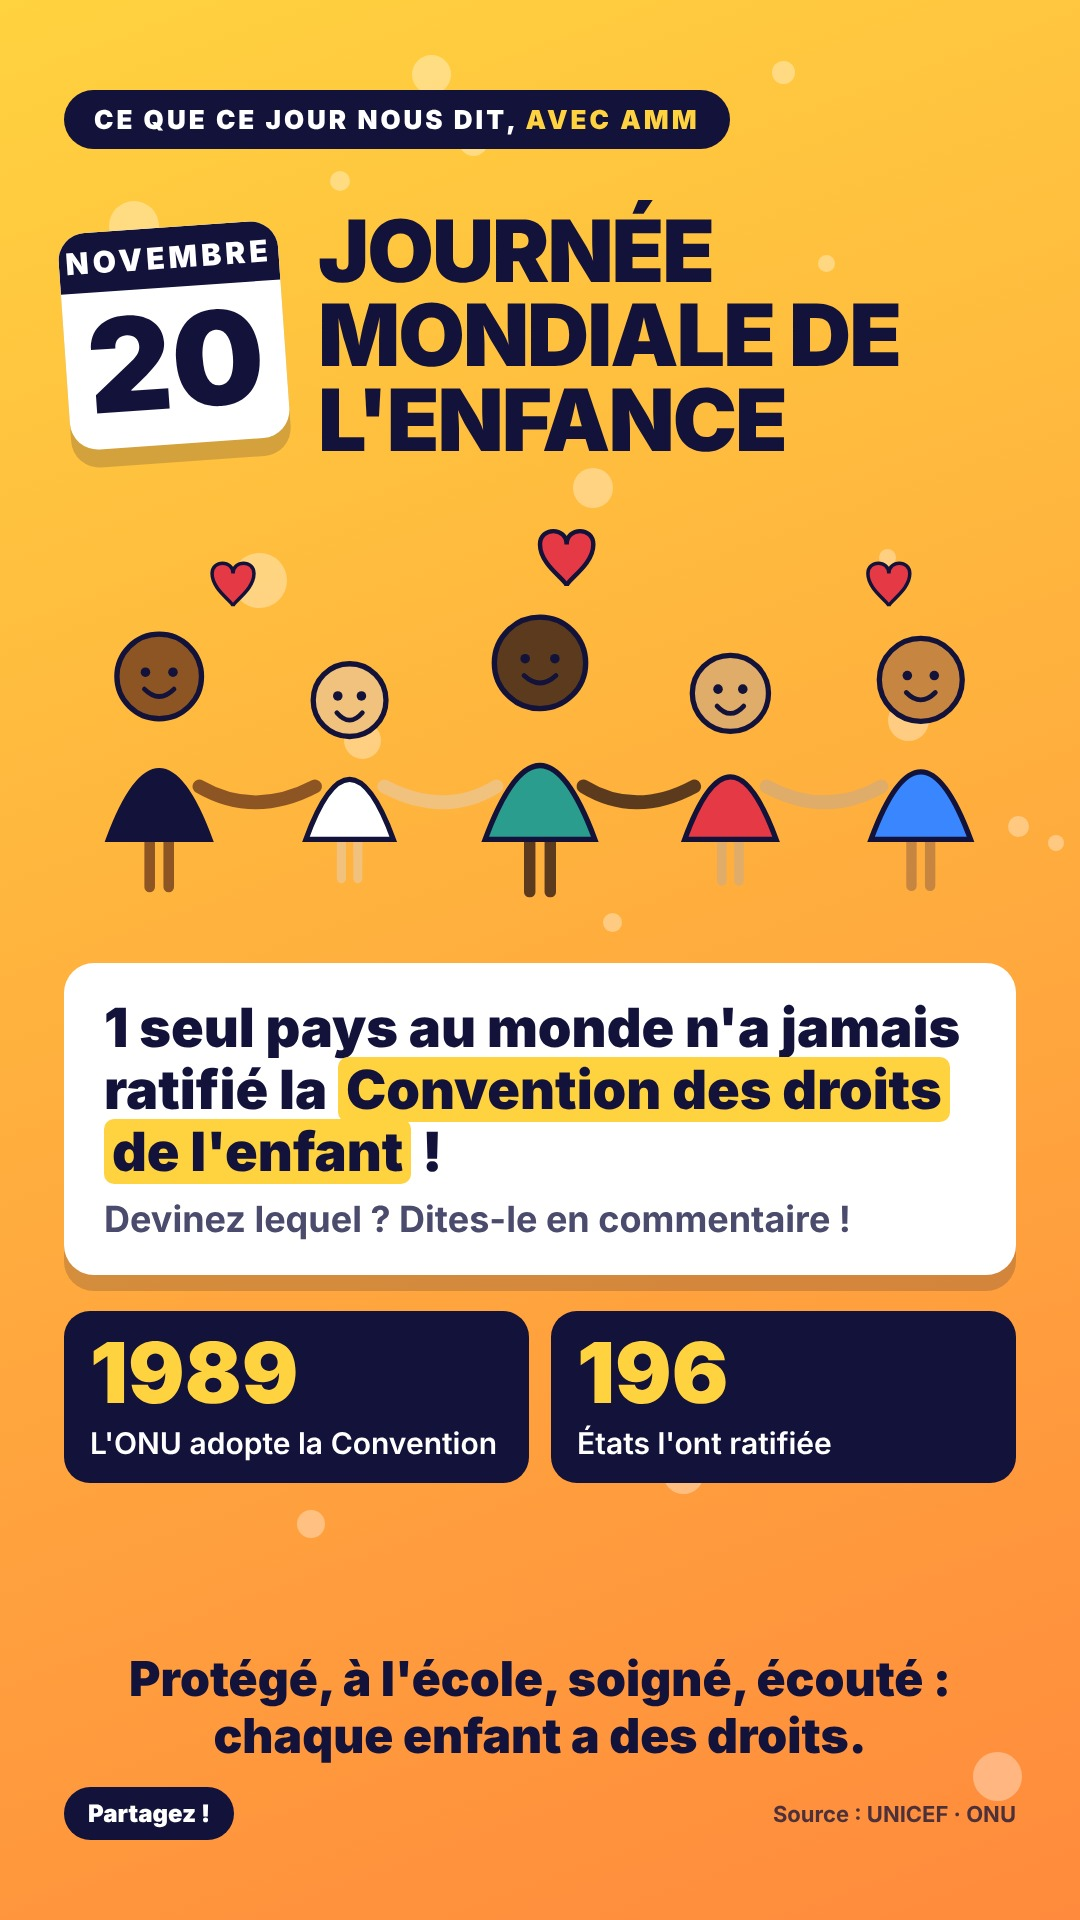
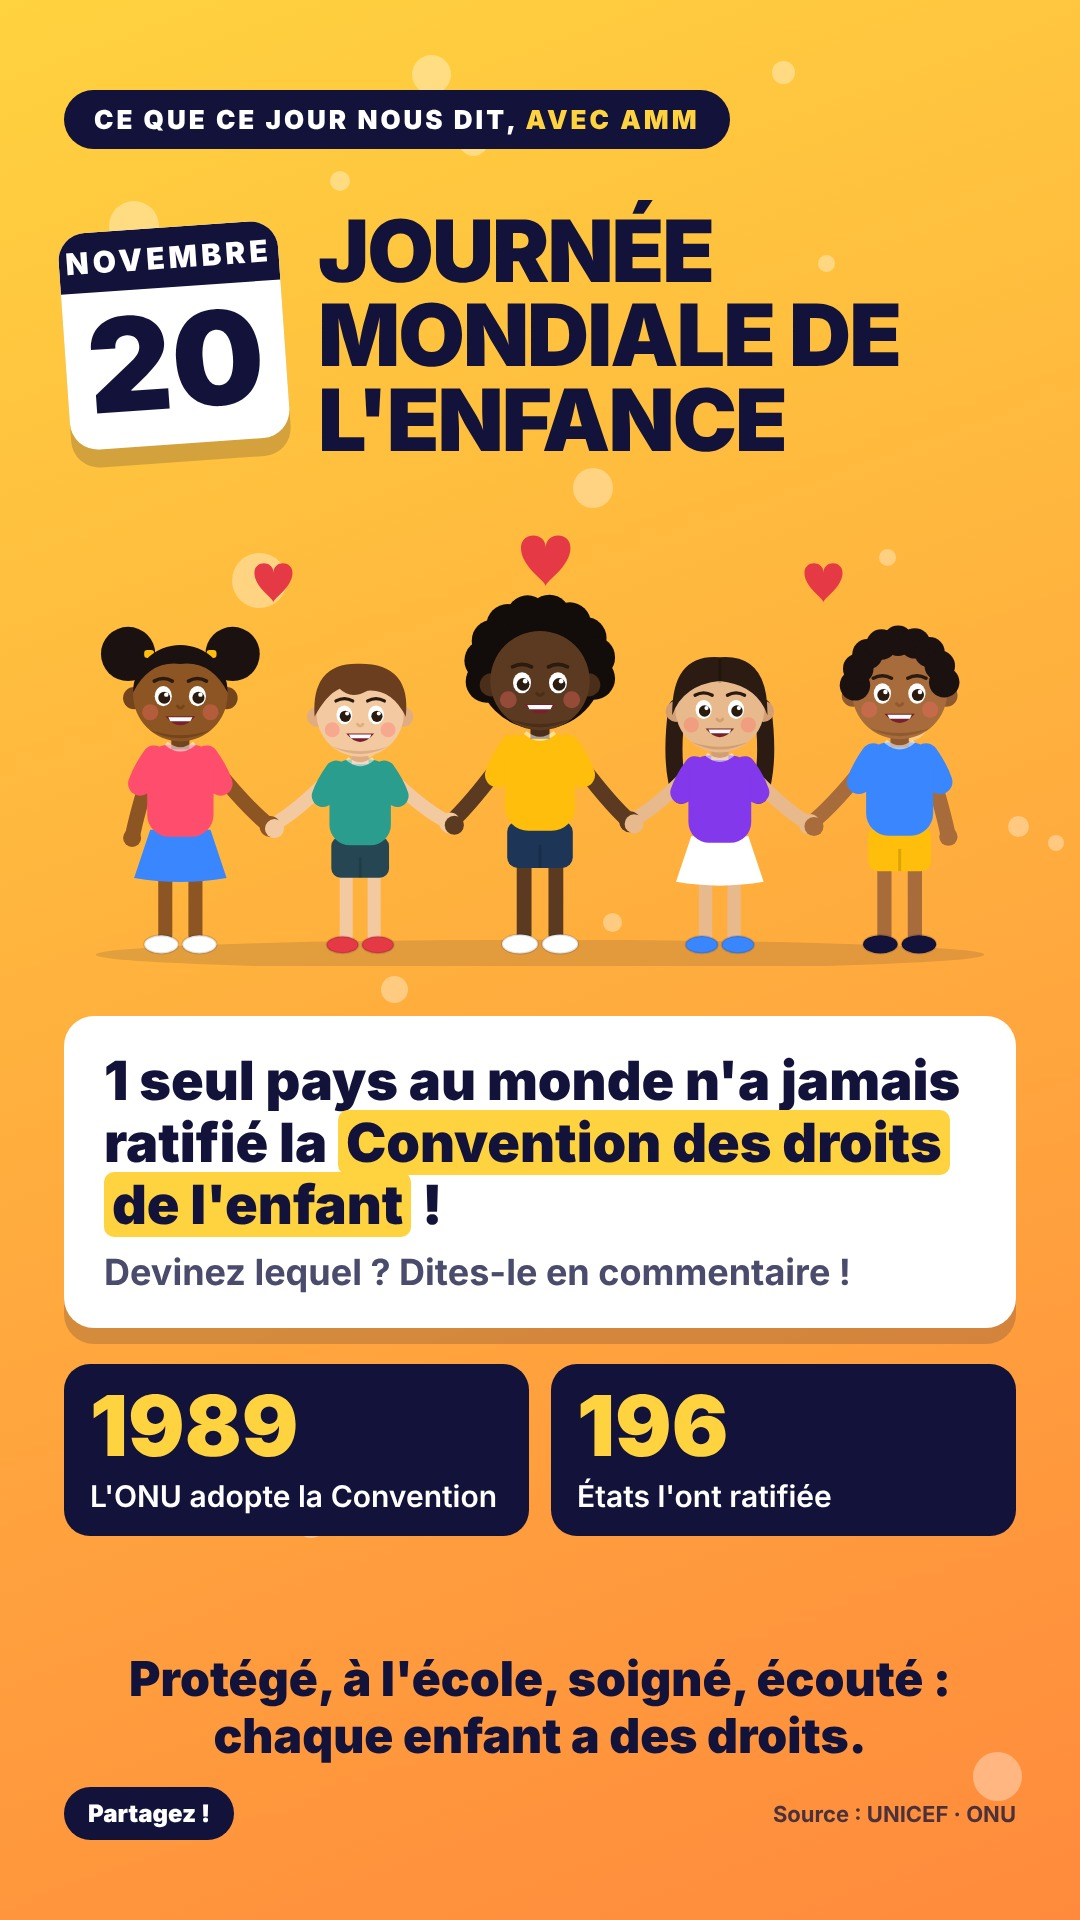
Enfants plus détaillés sur l'affiche de la journée
Claude-Session: https://claude.ai/code/session_01HynAV8anekBb6jC4QEREeE

Changed region(s): [[0.0611, 0.25, 0.9472, 0.8125]]

diff --git a/outil/journee2.html b/outil/journee2.html
@@ -27,7 +27,7 @@
   .cal .d { font-weight: 900; font-size: 130px; line-height: 1.05; padding: 6px 0 14px; }
   h1 { font-weight: 900; font-size: {{TAILLE}}px; line-height: .98; letter-spacing: -2px; text-transform: uppercase; }
   .illu { margin: 18px auto 0; width: 100%; display: flex; justify-content: center; }
-  .illu svg { width: 760px; height: auto; }
+  .illu svg { width: 680px; height: auto; }
   .tall .illu svg { width: 1000px; }
   .tall .hook .q { font-size: 54px; } .tall .hook .r { font-size: 36px; }
   .tall .stat .v { font-size: 84px; } .tall .stat .l { font-size: 30px; }

diff --git a/outil/journee2.py b/outil/journee2.py
@@ -30,37 +30,137 @@ e = html.escape
 
 
 def enfants_svg() -> str:
-    peaux = ["#8d5524", "#f1c27d", "#5c3a1e", "#e0ac69", "#c68642"]
-    habits = ["#12123a", "#ffffff", "#2a9d8f", "#e63946", "#3a86ff"]
-    tailles = [1.0, 0.86, 1.08, 0.9, 0.98]
-    out = []
-    x0, step = 90, 180
-    for i, (p, h, t) in enumerate(zip(peaux, habits, tailles)):
-        cx = x0 + i * step
-        base = 300
-        body_h = 120 * t
-        head_r = 40 * t
-        top = base - body_h
-        out.append(
-            f'<rect x="{cx-14*t}" y="{base-10}" width="{10*t}" height="{60*t}" rx="5" fill="{p}"/>'
-            f'<rect x="{cx+4*t}" y="{base-10}" width="{10*t}" height="{60*t}" rx="5" fill="{p}"/>'
-            f'<path d="M{cx-48*t},{base} Q{cx},{top-10} {cx+48*t},{base} Z" fill="{h}" stroke="#12123a" stroke-width="5"/>'
-            f'<circle cx="{cx}" cy="{top-head_r+6}" r="{head_r}" fill="{p}" stroke="#12123a" stroke-width="5"/>'
-            f'<circle cx="{cx-13*t}" cy="{top-head_r+2}" r="4.5" fill="#12123a"/>'
-            f'<circle cx="{cx+13*t}" cy="{top-head_r+2}" r="4.5" fill="#12123a"/>'
-            f'<path d="M{cx-14*t},{top-head_r+18} Q{cx},{top-head_r+32} {cx+14*t},{top-head_r+18}" fill="none" stroke="#12123a" stroke-width="4.5" stroke-linecap="round"/>'
-        )
-        if i < 4:
-            nx = x0 + (i + 1) * step
-            out.append(
-                f'<path d="M{cx+38*t},{base-50} Q{(cx+nx)/2},{base-20} {nx-38*tailles[i+1]},{base-50}" '
-                f'fill="none" stroke="{p}" stroke-width="13" stroke-linecap="round"/>'
+    """Cinq enfants en illustration « flat » détaillée, qui se tiennent la main."""
+    kids = [
+        # (x, échelle, peau, peau ombre, cheveux, style, haut, bas, type bas, chaussures)
+        (110, 0.95, "#8d5524", "#74451c", "#1b1110", "afro_puffs", "#ff4d6d", "#3a86ff", "jupe", "#ffffff"),
+        (280, 0.88, "#f3c9a1", "#e0ad83", "#6b3e1f", "court", "#2a9d8f", "#264653", "short", "#e63946"),
+        (450, 1.00, "#5c3a21", "#4a2e1a", "#120c0a", "afro", "#ffbe0b", "#1d3557", "short", "#ffffff"),
+        (620, 0.90, "#e8b98c", "#d39f72", "#2b1b12", "tresses", "#8338ec", "#ffffff", "jupe", "#3a86ff"),
+        (790, 0.96, "#a86b3c", "#8f5a31", "#1b1110", "boucles", "#3a86ff", "#ffbe0b", "short", "#12123a"),
+    ]
+    sol = 385
+
+    def pt(x, s, dx, dy):
+        return x + dx * s, sol + dy * s
+
+    def hair(style, x, s, c):
+        hx, hy = pt(x, s, 0, -255)
+        r = 47 * s
+        if style == "afro":
+            bumps = "".join(
+                f'<circle cx="{hx + 52*s*__import__("math").cos(a/10)}" cy="{hy - 12*s + 50*s*__import__("math").sin(a/10)}" r="{20*s}" fill="{c}"/>'
+                for a in range(-34, 3, 4)
             )
+            return f'<circle cx="{hx}" cy="{hy-14*s}" r="{60*s}" fill="{c}"/>' + bumps, ""
+        if style == "afro_puffs":
+            back = (f'<circle cx="{hx-52*s}" cy="{hy-40*s}" r="{27*s}" fill="{c}"/>'
+                    f'<circle cx="{hx+52*s}" cy="{hy-40*s}" r="{27*s}" fill="{c}"/>'
+                    f'<rect x="{hx-36*s}" y="{hy-44*s}" width="{10*s}" height="{8*s}" rx="3" fill="#ffbe0b"/>'
+                    f'<rect x="{hx+26*s}" y="{hy-44*s}" width="{10*s}" height="{8*s}" rx="3" fill="#ffbe0b"/>')
+            front = f'<path d="M{hx-r},{hy-2*s} A{r},{r} 0 0 1 {hx+r},{hy-2*s} Q{hx+30*s},{hy-34*s} {hx},{hy-30*s} Q{hx-30*s},{hy-34*s} {hx-r},{hy-2*s}Z" fill="{c}"/>'
+            return back, front
+        if style == "court":
+            front = (f'<path d="M{hx-r-2*s},{hy+4*s} Q{hx-r-6*s},{hy-r-8*s} {hx},{hy-r-6*s} Q{hx+r+8*s},{hy-r-6*s} {hx+r+2*s},{hy+4*s} '
+                     f'Q{hx+34*s},{hy-26*s} {hx+8*s},{hy-24*s} Q{hx-10*s},{hy-14*s} {hx-22*s},{hy-26*s} Q{hx-36*s},{hy-20*s} {hx-r-2*s},{hy+4*s}Z" fill="{c}"/>')
+            return "", front
+        if style == "tresses":
+            back = (f'<path d="M{hx-r+2*s},{hy} Q{hx-r-6*s},{hy+60*s} {hx-r+6*s},{hy+92*s}" stroke="{c}" stroke-width="{18*s}" fill="none" stroke-linecap="round"/>'
+                    f'<path d="M{hx+r-2*s},{hy} Q{hx+r+6*s},{hy+60*s} {hx+r-6*s},{hy+92*s}" stroke="{c}" stroke-width="{18*s}" fill="none" stroke-linecap="round"/>'
+                    f'<circle cx="{hx-r+6*s}" cy="{hy+92*s}" r="{8*s}" fill="#ff4d6d"/><circle cx="{hx+r-6*s}" cy="{hy+92*s}" r="{8*s}" fill="#ff4d6d"/>')
+            front = (f'<path d="M{hx-r-3*s},{hy+8*s} Q{hx-r-4*s},{hy-r-10*s} {hx},{hy-r-6*s} Q{hx+r+4*s},{hy-r-10*s} {hx+r+3*s},{hy+8*s} '
+                     f'Q{hx+r-8*s},{hy-24*s} {hx},{hy-28*s} Q{hx-r+8*s},{hy-24*s} {hx-r-3*s},{hy+8*s}Z" fill="{c}"/>'
+                     f'<path d="M{hx},{hy-r-4*s} L{hx},{hy-26*s}" stroke="#00000033" stroke-width="{3*s}"/>')
+            return back, front
+        if style == "boucles":
+            import math
+            curls = "".join(
+                f'<circle cx="{hx + 44*s*math.cos(math.radians(a))}" cy="{hy - 6*s + 44*s*math.sin(math.radians(a))}" r="{15*s}" fill="{c}"/>'
+                for a in range(180, 361, 22)
+            )
+            return "", curls
+        return "", ""
+
+    def child(x, s, peau, ombre, chev, style, haut, bas, typebas, chauss, mains):
+        o = []
+        back, front = hair(style, x, s, chev)
+        o.append(back)
+        # jambes + chaussures
+        for dx in (-15, 15):
+            lx, ly = pt(x, s, dx, -88)
+            o.append(f'<rect x="{lx-7*s}" y="{ly}" width="{14*s}" height="{80*s}" rx="{7*s}" fill="{peau}"/>')
+            sx, sy = pt(x, s, dx + (4 if dx > 0 else -4), -6)
+            o.append(f'<ellipse cx="{sx}" cy="{sy}" rx="{17*s}" ry="{9*s}" fill="{chauss}" stroke="#12123a22" stroke-width="2"/>')
+        # bas
+        if typebas == "jupe":
+            a = pt(x, s, -30, -120); b = pt(x, s, 30, -120); c = pt(x, s, 46, -72); d = pt(x, s, -46, -72)
+            o.append(f'<path d="M{a[0]},{a[1]} L{b[0]},{b[1]} L{c[0]},{c[1]} Q{x},{c[1]+8*s} {d[0]},{d[1]}Z" fill="{bas}"/>')
+        else:
+            bx, by = pt(x, s, -31, -122)
+            o.append(f'<rect x="{bx}" y="{by}" width="{62*s}" height="{44*s}" rx="{10*s}" fill="{bas}"/>')
+            mx, my = pt(x, s, 0, -100)
+            o.append(f'<line x1="{mx}" y1="{my}" x2="{mx}" y2="{my+22*s}" stroke="#00000022" stroke-width="{3*s}"/>')
+        # bras (derrière le buste)
+        for side, m in mains:
+            sx, sy = pt(x, s, 26 * side, -192)
+            mx, my = m
+            cx_, cy_ = (sx + mx) / 2 + 6 * side * s, (sy + my) / 2 + 14 * s
+            o.append(f'<path d="M{sx},{sy} Q{cx_},{cy_} {mx},{my}" stroke="{peau}" stroke-width="{15*s}" fill="none" stroke-linecap="round"/>')
+            o.append(f'<path d="M{sx},{sy} Q{sx+10*side*s},{sy+14*s} {sx+14*side*s},{sy+26*s}" stroke="{haut}" stroke-width="{24*s}" fill="none" stroke-linecap="round"/>')
+        # buste
+        tx, ty = pt(x, s, -33, -205)
+        o.append(f'<rect x="{tx}" y="{ty}" width="{66*s}" height="{92*s}" rx="{22*s}" fill="{haut}"/>')
+        # cou
+        nx, ny = pt(x, s, -9, -218)
+        o.append(f'<rect x="{nx}" y="{ny}" width="{18*s}" height="{18*s}" fill="{ombre}"/>')
+        cxl, cyl = pt(x, s, 0, -206)
+        o.append(f'<path d="M{cxl-14*s},{cyl} Q{cxl},{cyl+12*s} {cxl+14*s},{cyl}" fill="none" stroke="#ffffff88" stroke-width="{4*s}"/>')
+        # tête
+        hx, hy = pt(x, s, 0, -255)
+        for side in (-1, 1):
+            o.append(f'<circle cx="{hx+46*side*s}" cy="{hy+4*s}" r="{11*s}" fill="{ombre}"/>')
+        o.append(f'<circle cx="{hx}" cy="{hy}" r="{47*s}" fill="{peau}"/>')
+        o.append(f'<path d="M{hx-30*s},{hy+36*s} Q{hx},{hy+52*s} {hx+30*s},{hy+36*s} Q{hx},{hy+46*s} {hx-30*s},{hy+36*s}Z" fill="{ombre}"/>')
+        o.append(front)
+        # visage
+        for side in (-1, 1):
+            ex, ey = hx + 17 * side * s, hy + 2 * s
+            o.append(f'<ellipse cx="{ex}" cy="{ey}" rx="{8.5*s}" ry="{10*s}" fill="#fff"/>')
+            o.append(f'<circle cx="{ex+1*s}" cy="{ey+1.5*s}" r="{6*s}" fill="#2b1a10"/>')
+            o.append(f'<circle cx="{ex+3*s}" cy="{ey-1.5*s}" r="{2.2*s}" fill="#fff"/>')
+            o.append(f'<path d="M{ex-9*s},{ey-15*s} Q{ex},{ey-20*s} {ex+9*s},{ey-15*s}" stroke="#2b1a10" stroke-width="{3.5*s}" fill="none" stroke-linecap="round"/>')
+            o.append(f'<circle cx="{hx+30*side*s}" cy="{hy+18*s}" r="{8*s}" fill="#ff6b6b" opacity=".35"/>')
+        o.append(f'<path d="M{hx-3*s},{hy+12*s} Q{hx},{hy+16*s} {hx+3*s},{hy+12*s}" stroke="{ombre}" stroke-width="{3*s}" fill="none" stroke-linecap="round"/>')
+        o.append(f'<path d="M{hx-15*s},{hy+22*s} Q{hx},{hy+40*s} {hx+15*s},{hy+22*s}Z" fill="#7a1f2b"/>')
+        o.append(f'<path d="M{hx-12*s},{hy+23*s} L{hx+12*s},{hy+23*s} L{hx+10*s},{hy+27*s} L{hx-10*s},{hy+27*s}Z" fill="#fff"/>')
+        return "".join(o)
+
+    # points où les mains se rejoignent
+    jonctions = []
+    for i in range(4):
+        x1, s1 = kids[i][0], kids[i][1]
+        x2, s2 = kids[i + 1][0], kids[i + 1][1]
+        jonctions.append(((x1 + x2) / 2, sol - 128 * (s1 + s2) / 2))
+    out = []
+    for i, k in enumerate(kids):
+        x, s = k[0], k[1]
+        mains = []
+        mains.append((-1, jonctions[i - 1] if i > 0 else pt(x, s, -48, -112)))
+        mains.append((1, jonctions[i] if i < 4 else pt(x, s, 48, -112)))
+        out.append(child(*k, mains))
+    for i, (jx, jy) in enumerate(jonctions):
+        out.append(f'<circle cx="{jx}" cy="{jy}" r="{10}" fill="{kids[i][2]}"/>')
+        out.append(f'<circle cx="{jx+4}" cy="{jy+2}" r="{9}" fill="{kids[i+1][2]}"/>')
+    for i in (0, 4):
+        x, s = kids[i][0], kids[i][1]
+        hx, hy = pt(x, s, -48 if i == 0 else 48, -112)
+        out.append(f'<circle cx="{hx}" cy="{hy}" r="{9*s}" fill="{kids[i][2]}"/>')
+    ombre_sol = f'<ellipse cx="450" cy="{sol+4}" rx="420" ry="14" fill="#12123a" opacity=".12"/>'
     coeurs = "".join(
-        f'<path transform="translate({x},{y}) scale({s})" d="M0,8 C0,-4 18,-4 18,8 C18,-4 36,-4 36,8 C36,22 18,32 18,36 C18,32 0,22 0,8Z" fill="#e63946" stroke="#12123a" stroke-width="3"/>'
-        for x, y, s in [(140, 40, 1.1), (450, 10, 1.4), (760, 40, 1.1)]
+        f'<path transform="translate({x},{y}) scale({sc})" d="M0,8 C0,-4 18,-4 18,8 C18,-4 36,-4 36,8 C36,22 18,32 18,36 C18,32 0,22 0,8Z" fill="#e63946"/>'
+        for x, y, sc in [(180, 20, 1.0), (432, -6, 1.3), (700, 20, 1.0)]
     )
-    return f'<svg viewBox="0 0 900 370" xmlns="http://www.w3.org/2000/svg">{coeurs}{"".join(out)}</svg>'
+    return f'<svg viewBox="0 -20 900 420" xmlns="http://www.w3.org/2000/svg">{coeurs}{ombre_sol}{"".join(out)}</svg>'
 
 
 def monde_svg() -> str:
